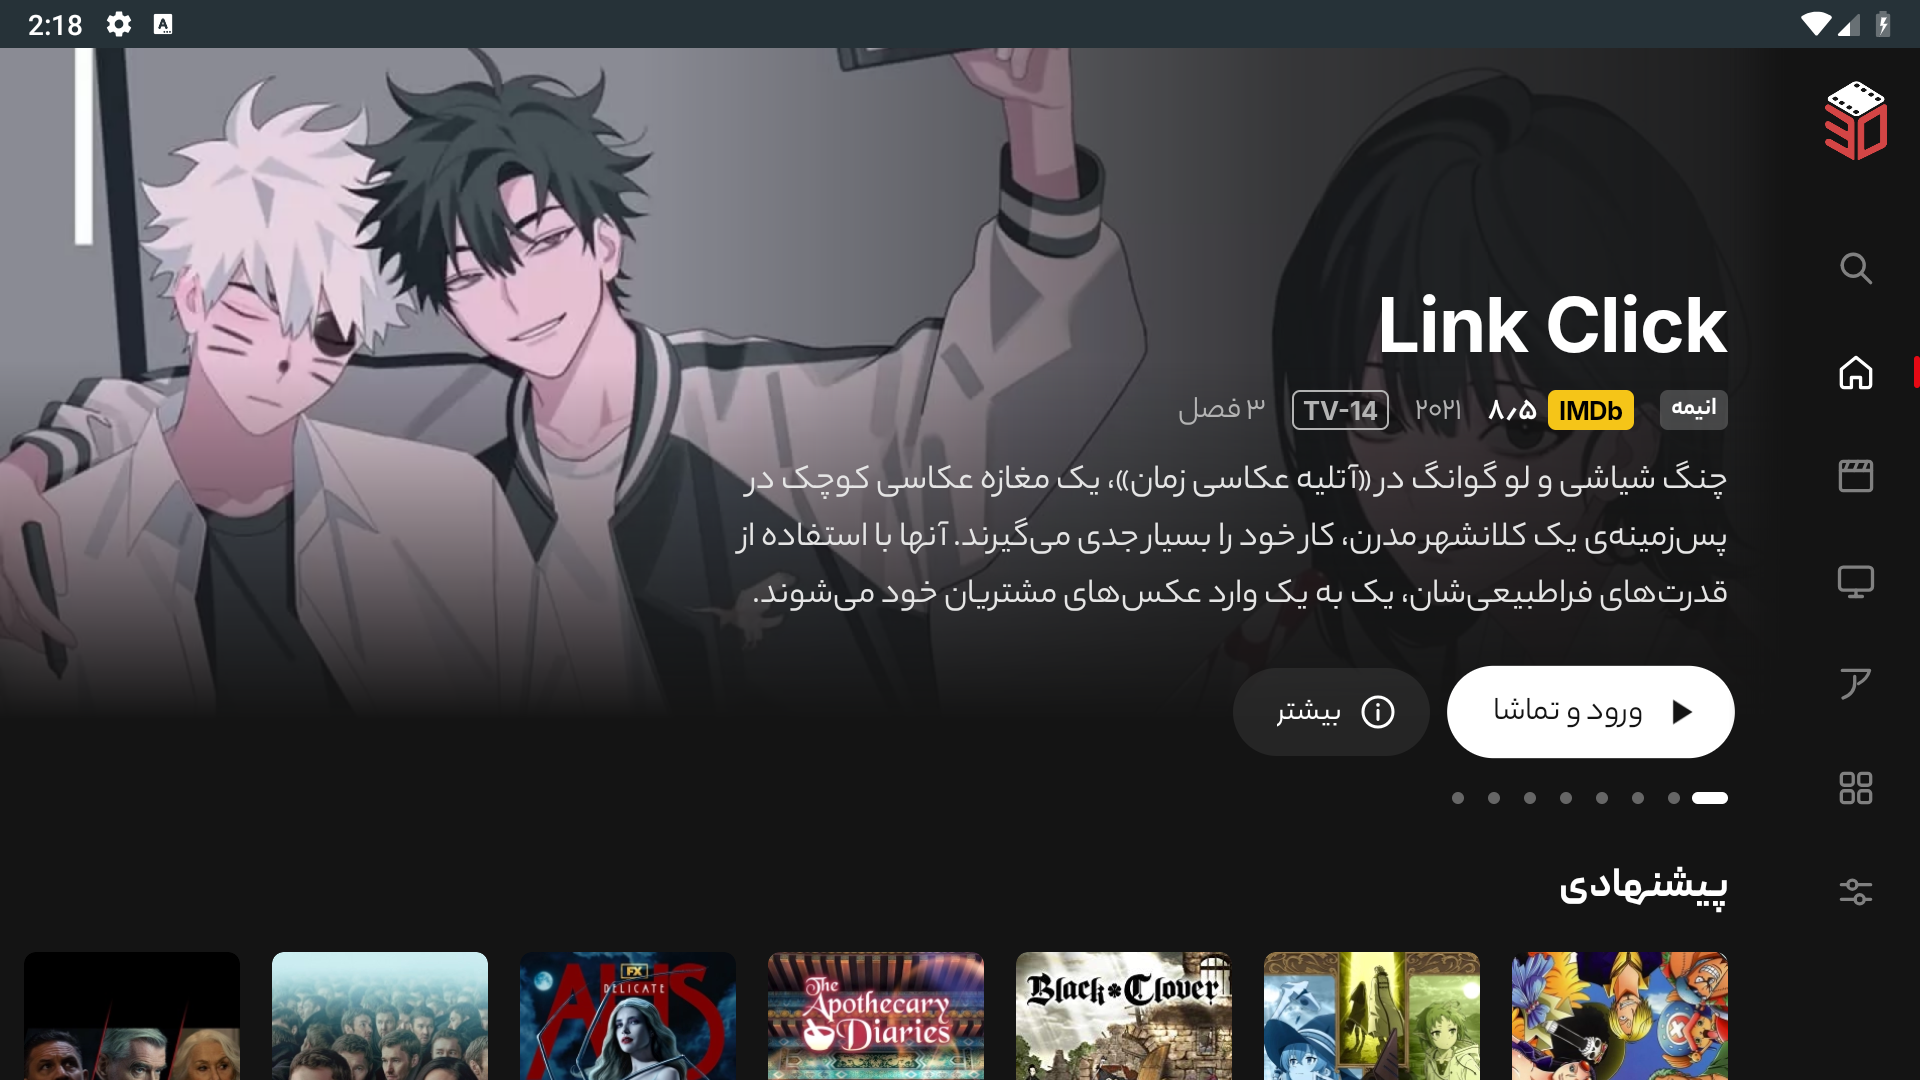
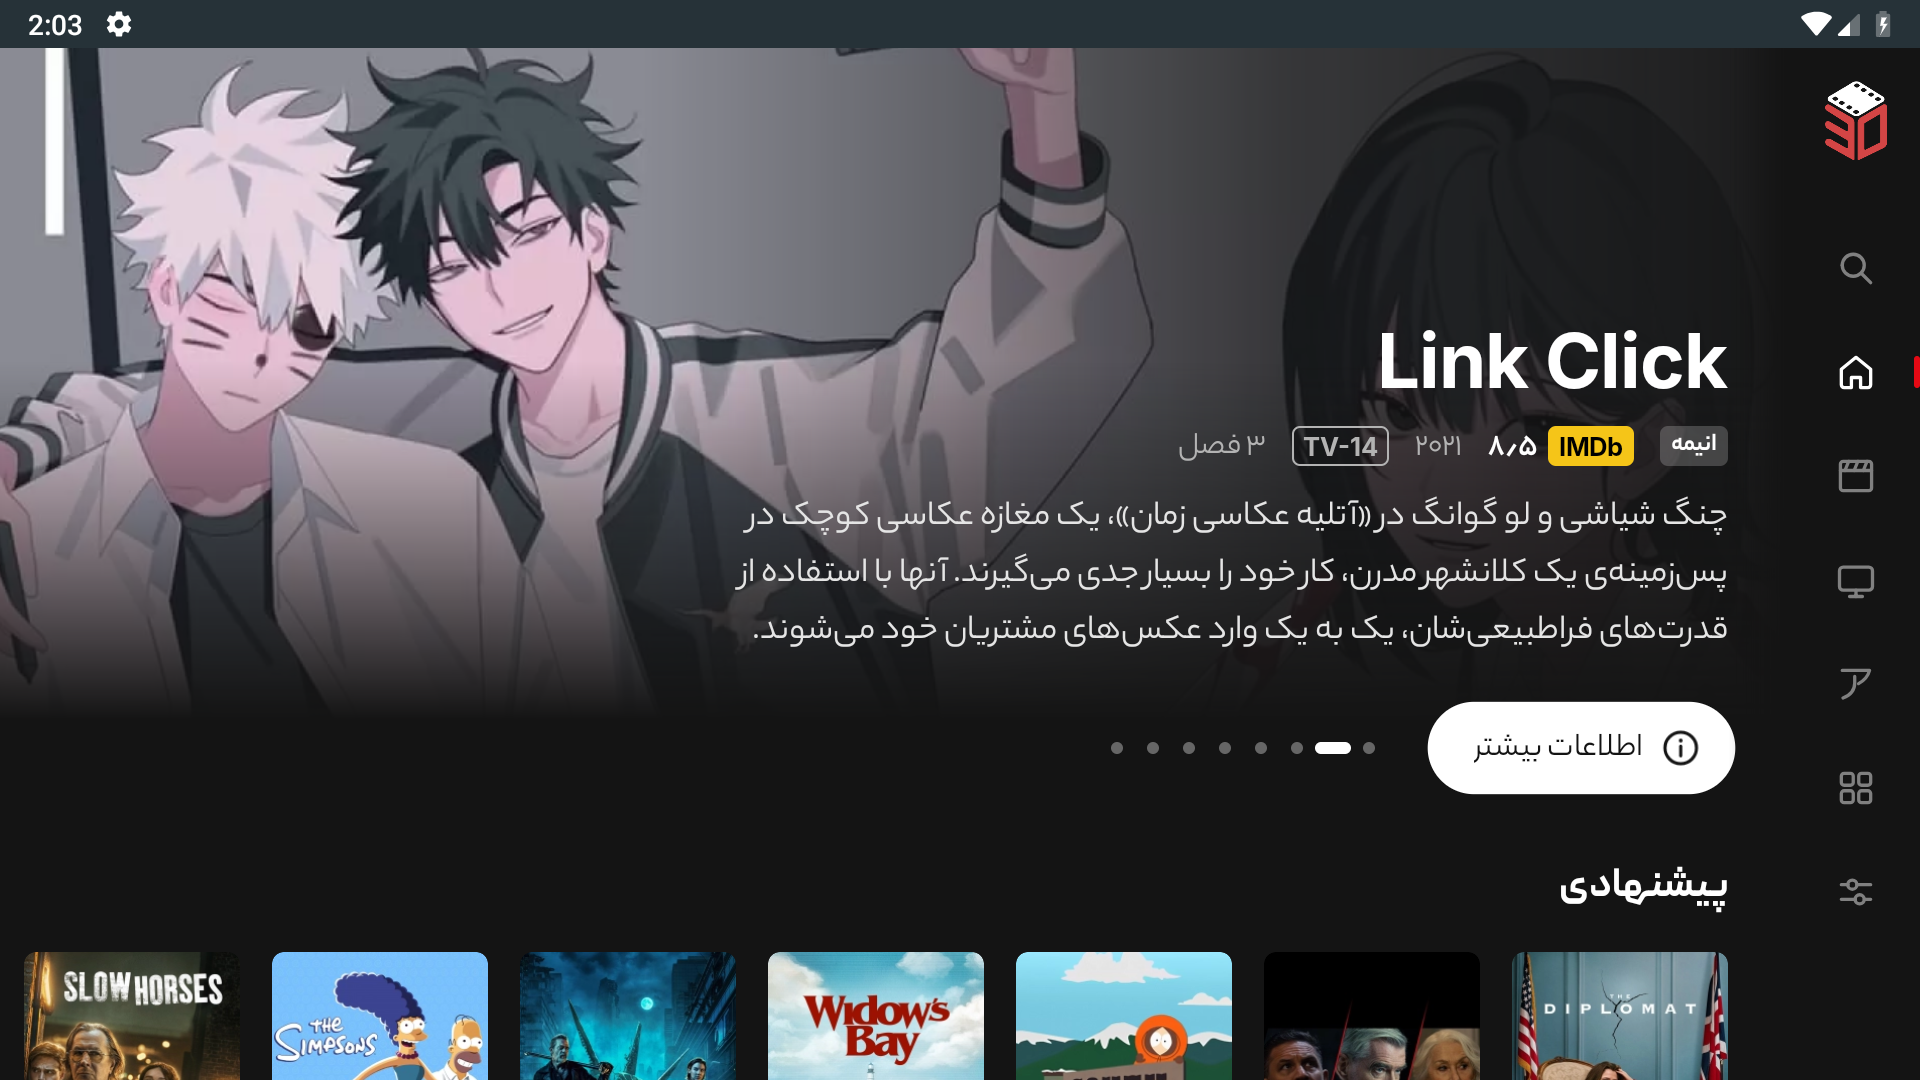
Show home rows, a title page, an in-app trailer, genres and Settings > Services in the README, and describe the trailers

diff --git a/README.md b/README.md
@@ -12,6 +12,7 @@ Search uses a six-column vertical grid. Home shows every genre in its row, endin
 
 - **Home.** 30nama's promoted titles page left and right on a hero with one **More info** button; the remote's play key starts the title. Home draws at once from the last saved copy, then refreshes in place. The artwork of the titles next to the one in focus is fetched ahead, so moving along a row rarely waits.
 - **Posters.** Hold OK on any poster for quick actions: More info, add or remove it from your three lists, and the trailer when one exists. On Continue Watching, holding OK offers to remove the title or open its page.
+- **Trailers.** The title page's **Trailer** plays in the app's own player: Aparat's upload in Iran, with no VPN and often with Persian subtitles, and the studio's YouTube trailer elsewhere, each falling back to the other. YouTube's mark on the button says when it plays from YouTube; hold OK on it to choose. YouTube needs youtube.com within reach and a WebView from 2019 on.
 - **Search.** Recent searches return when the box is empty, above 30nama's suggestions.
 - **Player.** The controls open on play/pause. Left and right scrub in five-second steps that speed up while held, and the seek lands a second after the last press. The light part of the seek bar shows what is ready, including the disk read-ahead (Settings > Playback > Preload), and the next episode's opening is fetched during the credits. The title's Persian name sits under the English one.
 - **Subtitles.** **Find subtitles** searches SubDL and OpenSubtitles for the film or exact episode, Persian first, and loads the chosen file without stopping playback, converting old Windows-1256 Persian files. **Make Persian subtitles** has Claude, OpenAI or Gemini translate the English subtitle (30nama's, or one from the subtitle sites) into natural, spoken Persian in a few minutes while the film plays, then switches it on. **Subtitle timing** shifts any subtitle earlier or later in quarter-second steps.
@@ -77,10 +78,11 @@ GitHub Actions runs the instrumented debug APK on an Android 11 TV emulator with
 
 ## Interface
 
-![Home with loaded artwork](docs/screenshots/home-fa.png)
+| | |
+|:-:|:-:|
+| ![Home: the billboard of 30nama's promoted titles](docs/screenshots/home-fa.png)<br>Home | ![Home rows: each poster with its title, year and IMDb score](docs/screenshots/home-rows-fa.png)<br>Home rows |
+| ![MobLand's title page with Play and Trailer](docs/screenshots/title-fa.png)<br>Title page | ![MobLand's trailer from Aparat, paused in the app's trailer player](docs/screenshots/trailer-fa.png)<br>Trailer, played in the app |
+| ![Search results for batman](docs/screenshots/search-batman-fa.png)<br>Search | ![Movies catalogue with loaded posters](docs/screenshots/catalogue-movies-fa.png)<br>Movies |
+| ![Categories and genres](docs/screenshots/genres-fa.png)<br>Categories and genres | ![Settings, Services: TMDB, the subtitle sites and the models that make Persian subtitles](docs/screenshots/settings-services-fa.png)<br>Settings: services |
 
-![Real Friends search results](docs/screenshots/search-friends-fa.png)
-
-![Movies catalogue with loaded posters](docs/screenshots/catalogue-movies-fa.png)
-
-Screenshots show the optimized release browsing the live catalogue as a guest on a disposable emulator, after artwork loaded. They contain no mocked results or private account data. The emulator's status bar is visible; these are unmodified captures, not photos of a physical TV. The original logo and loading animation are documented in [branding provenance](docs/branding.md). 30nama branding and third-party font licenses retain their respective owners' rights; publishing this client does not imply affiliation or a license to reuse those assets separately.
+Screenshots show the optimized release browsing the live catalogue as a guest on a disposable Android 9 emulator, after artwork loaded. The trailer is Aparat's re-upload, with its uploader's watermark. They contain no mocked results or private account data. The emulator's status bar is visible; these are unmodified captures, not photos of a physical TV. The original logo and loading animation are documented in [branding provenance](docs/branding.md). 30nama branding and third-party font licenses retain their respective owners' rights; publishing this client does not imply affiliation or a license to reuse those assets separately.

diff --git a/docs/testing.md b/docs/testing.md
@@ -16,7 +16,7 @@ Install the APK on the Android 11 Sony TV and verify:
 2. Search `friends`: results scroll vertically; Down enters the grid, Up from its first row returns to search, and the edge arrow reaches the sidebar. Search replacement and voice search should show only the current query.
 3. My Lists: all three actions still open their original lists. Move rapidly between posters and rows, including the end of a paginated list.
    Genres: home shows every genre, then More; open More. The full four-column page should open immediately, every genre should open its catalogue, and Back should restore the focused genre/home tile.
-4. Animals teaser: video starts, pause/play work, controls hide after inactivity, backgrounding stops playback, and returning resumes correctly. YouTube trailers still open the installed YouTube/SmartTube app.
+4. Animals teaser: video starts, pause/play work, controls hide after inactivity, backgrounding stops playback, and returning resumes correctly. Outside Iran, or through a VPN, with a TMDB key: a title whose Trailer shows YouTube's mark plays it in the app with the same controls, and Back returns to the title page.
 5. Full playback: controls hide about five seconds after the last remote interaction while playing. Paused controls remain visible. Opening audio/quality/subtitle menus should keep them open until dismissed.
 6. Pause and seek forward using remote buttons and the progress bar: playback resumes after the committed seek. Cancelling the seek or seeking backward should preserve the previous paused state.
 7. Persian/English player titles: `I`, `F` and `d` remain complete. Subtitle paragraphs stay centered across the screen while controls/title information are visible. Check punctuation with Persian and mixed English/numeric cues from the actual Friends subtitle file.
